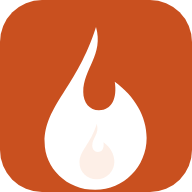
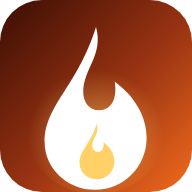
Installable on any device, and works in airplane mode
New ember app icon in every size platforms need (192, 512, maskable 512 with a safe-zone flame, 180 Apple touch icon, 32 favicon), a fuller manifest (id, display fallbacks, categories, wide and narrow screenshots for richer install dialogs) and iOS home-screen tags with safe-area padding. A ⤓ button installs FireCal with the browser's prompt where one exists (Chrome, Edge, Android, Samsung) and shows step-by-step instructions elsewhere (iPhone/iPad, Mac Safari, Firefox). Airplane mode: the service worker now saves the whole app shell, map library, fonts, borders, world fire map and the world base map (zoom 0-3) on the first visit, opens the app offline from any address, and 'Save all countries for offline' stores every calendar and map layer (~16 MB) with progress. An Offline chip shows when there is no connection, and unsaved areas explain how to get them. Tests check the offline list covers every script and stylesheet, and the manifest images match their sizes.

diff --git a/app/static/sw.js b/app/static/sw.js
@@ -1,18 +1,91 @@
-/* FireCal service worker: installable app shell + offline access to what you've already viewed.
-   Works at a site root (server edition) or under a sub-path such as /firecal/ (GitHub Pages). */
+/* FireCal service worker: an installable app that also works offline (airplane mode).
+   Works at a site root (local server) or under a sub-path such as /firecal/ (GitHub Pages).
+
+   On install it saves the whole app shell (code, styles, icons, fonts, map library, country borders,
+   the world fire map and the world base map down to zoom 3), so after one visit FireCal opens with no
+   connection at all. Areas you view are saved as you go; "Save all countries for offline" in the app
+   saves every country's calendar and every map layer (see app.js). */
 const VERSION = "{{v}}";
 const SHELL = `firecal-shell-${VERSION}`;
 const DATA = "firecal-data-v2";
 const LIBS = "firecal-libs-v1";
+const TILES = "firecal-tiles-v1";
+const FONTS = "firecal-fonts-v1";
 const BASE = new URL(self.registration.scope).pathname; // e.g. "/" or "/firecal/"
 
+const STATIC_FILES = ["styles.css", "app.js", "data.js", "engine.js", "geo.js", "live.js", "vendor/echarts.min.js"];
+const SHELL_URLS = ["./", "manifest.webmanifest", "world.geojson", "shapes.geojson",
+  ...STATIC_FILES.map((f) => `static/${f}?v=${VERSION}`),
+  "static/icon.svg", "static/icon-192.png", "static/icon-512.png", "static/icon-maskable-512.png", "static/apple-touch-icon.png", "static/favicon-32.png"];
+const DATA_URLS = ["data/meta.json", "data/map/all/overview.json", "data/live/meta.json", "data/live/overview.json",
+                   "data/live/tiles/index.json", "data/own_cells.json", "data/live/static_cells.json"];
+const LIB_URLS = ["https://cdnjs.cloudflare.com/ajax/libs/maplibre-gl/4.7.1/maplibre-gl.min.js",
+                  "https://cdnjs.cloudflare.com/ajax/libs/maplibre-gl/4.7.1/maplibre-gl.min.css"];
+const FONT_CSS = "https://fonts.googleapis.com/css2?family=Inter:wght@400;500;600;700&family=Space+Grotesk:wght@500;600;700&display=swap";
+
+function worldTiles() { // the base map of the whole world down to zoom 3 (85 small tiles per theme)
+  const out = [];
+  for (const theme of ["Light", "Dark"])
+    for (let z = 0; z <= 3; z++)
+      for (let y = 0; y < 2 ** z; y++)
+        for (let x = 0; x < 2 ** z; x++)
+          out.push(`https://server.arcgisonline.com/ArcGIS/rest/services/Canvas/World_${theme}_Gray_Base/MapServer/tile/${z}/${y}/${x}`);
+  return out;
+}
+
+async function saveAll(cacheName, urls, opts) { // best effort: one missing file never blocks the rest
+  const cache = await caches.open(cacheName);
+  await Promise.allSettled(urls.map(async (u) => {
+    if (opts?.skipCached && await cache.match(u)) return;
+    const res = await fetch(u, opts?.cors ? { mode: "cors" } : {});
+    if (res.ok || res.type === "opaque") await cache.put(u, res);
+  }));
+}
+
+async function saveFonts() { // the font stylesheet and the font files it points to
+  try {
+    const res = await fetch(FONT_CSS);
+    if (!res.ok) return;
+    const css = await res.clone().text();
+    await (await caches.open(FONTS)).put(FONT_CSS, res);
+    await saveAll(FONTS, [...css.matchAll(/url\((https:[^)]+)\)/g)].map((m) => m[1]));
+  } catch (_) { /* offline fonts fall back to the system font */ }
+}
+
 self.addEventListener("install", (e) => {
-  e.waitUntil(caches.open(SHELL).then((c) => c.addAll(["./", "world.geojson", "manifest.webmanifest"])).then(() => self.skipWaiting()));
+  e.waitUntil((async () => {
+    await saveAll(SHELL, SHELL_URLS);                      // the app itself
+    await Promise.allSettled([saveAll(DATA, DATA_URLS), saveAll(LIBS, LIB_URLS), saveFonts()]);
+    await self.skipWaiting();
+    saveAll(TILES, worldTiles(), { skipCached: true });   // in the background: not needed to start
+  })());
 });
 
 self.addEventListener("activate", (e) => {
   e.waitUntil(caches.keys().then((keys) => Promise.all(keys.filter((k) => k.startsWith("firecal-shell-") && k !== SHELL).map((k) => caches.delete(k))))
     .then(() => self.clients.claim()));
+});
+
+// the page asks for everything to be saved for offline use; progress is reported back to it
+self.addEventListener("message", (e) => {
+  if (e.data?.type !== "save-offline") return;
+  const urls = e.data.urls, port = e.ports[0];
+  e.waitUntil((async () => {
+    const cache = await caches.open(DATA);
+    let done = 0, failed = 0, i = 0;
+    await Promise.all(Array.from({ length: 6 }, async () => {
+      while (i < urls.length) {
+        const u = urls[i++];
+        try {
+          const res = await fetch(u, { cache: "no-cache" });
+          if (res.ok) await cache.put(u, res); else failed++;
+        } catch (_) { failed++; }
+        done++;
+        if (done % 10 === 0 || done === urls.length) port?.postMessage({ done, total: urls.length, failed });
+      }
+    }));
+    port?.postMessage({ done, total: urls.length, failed, finished: true });
+  })());
 });
 
 async function networkFirst(req, cacheName) {
@@ -22,7 +95,7 @@ async function networkFirst(req, cacheName) {
     if (res.ok) cache.put(req, res.clone());
     return res;
   } catch (err) {
-    const hit = await cache.match(req, { ignoreSearch: false });
+    const hit = await cache.match(req) || await cache.match(req, { ignoreSearch: true });
     if (hit) return hit;
     throw err;
   }
@@ -39,16 +112,28 @@ async function cacheFirst(req, cacheName) {
 
 async function staleWhileRevalidate(req, cacheName, event) {
   const cache = await caches.open(cacheName);
-  const hit = await cache.match(req);
+  const hit = await cache.match(req) || await cache.match(req, { ignoreSearch: true });
   const update = fetch(req).then((res) => { if (res.ok) cache.put(req, res.clone()); return res; });
   if (hit) { event.waitUntil(update.catch(() => {})); return hit; }
   return update;
+}
+
+async function page(req) { // the app page: fresh when online, the saved copy offline (any #hash or ?query)
+  try {
+    const res = await fetch(req);
+    if (res.ok) (await caches.open(SHELL)).put("./", res.clone());
+    return res;
+  } catch (err) {
+    const shell = await caches.open(SHELL);
+    return (await shell.match("./")) || (await shell.match(req, { ignoreSearch: true })) || Response.error();
+  }
 }
 
 self.addEventListener("fetch", (e) => {
   const req = e.request;
   if (req.method !== "GET") return;
   const url = new URL(req.url);
+  if (req.mode === "navigate" && url.origin === location.origin) { e.respondWith(page(req)); return; }
   if (url.origin === location.origin) {
     const p = url.pathname.slice(BASE.length - 1); // path relative to the app root, starting with "/"
     if (p.startsWith("/api/jobs") || p.startsWith("/api/prepare")) return;                                  // progress: always live
@@ -59,7 +144,9 @@ self.addEventListener("fetch", (e) => {
     else e.respondWith(networkFirst(req, SHELL));
   } else if (url.hostname === "cdnjs.cloudflare.com") {
     e.respondWith(cacheFirst(req, LIBS));
+  } else if (url.hostname === "fonts.googleapis.com" || url.hostname === "fonts.gstatic.com") {
+    e.respondWith(cacheFirst(req, FONTS));
   } else if (url.hostname === "server.arcgisonline.com") {
-    e.respondWith(cacheFirst(req, "firecal-tiles-v1"));
+    e.respondWith(cacheFirst(req, TILES));
   }
 });

diff --git a/app/static/app.js b/app/static/app.js
@@ -1010,6 +1010,96 @@ function locateMe() {
   }, () => toast("Location permission denied"), { timeout: 10000 });
 }
 
+// ───────────────────────── install & offline ─────────────────────────
+let installPrompt = null;
+const isStandalone = () => matchMedia("(display-mode: standalone)").matches || navigator.standalone === true;
+function platform() {
+  const ua = navigator.userAgent;
+  if (/iPad|iPhone|iPod/.test(ua) || (/Macintosh/.test(ua) && navigator.maxTouchPoints > 1)) return "ios";
+  if (/Android/.test(ua)) return /SamsungBrowser/.test(ua) ? "samsung" : /Firefox/.test(ua) ? "android-firefox" : "android";
+  if (/Firefox/.test(ua)) return "firefox";
+  if (/Safari/.test(ua) && !/Chrome|Chromium|Edg|OPR/.test(ua)) return "mac-safari";
+  return /Edg/.test(ua) ? "edge" : "desktop";
+}
+addEventListener("beforeinstallprompt", (e) => { e.preventDefault(); installPrompt = e; $("installBtn").classList.add("ready"); });
+addEventListener("appinstalled", () => { installPrompt = null; toast("FireCal is installed. It opens from its icon and works offline."); });
+
+function installSteps() {
+  if (isStandalone()) return `<p class="ok-line">✓ FireCal is installed on this device and opens from its own icon.</p>`;
+  if (installPrompt) return `<p>Install FireCal as an app: its own icon, its own window, and it works offline.</p>
+    <p><button type="button" id="doInstall">Install FireCal</button></p>`;
+  const steps = {
+    ios: ["Tap the <b>Share</b> button <span class=\"kbd-ico\">⬆</span> (bottom of the screen on iPhone, top on iPad).",
+          "Scroll down and tap <b>Add to Home Screen</b>.", "Tap <b>Add</b>. FireCal now opens full-screen from its icon, also offline."],
+    android: ["Open the browser menu <b>⋮</b> (top right).", "Tap <b>Install app</b> (or <b>Add to Home screen</b>).", "Confirm with <b>Install</b>."],
+    samsung: ["Tap the menu <b>≡</b> (bottom right).", "Tap <b>Add page to</b> → <b>Home screen</b>.", "Confirm with <b>Add</b>."],
+    "android-firefox": ["Open the menu <b>⋮</b>.", "Tap <b>Install</b> (or <b>Add to Home screen</b>).", "Confirm."],
+    "mac-safari": ["In the menu bar choose <b>File → Add to Dock</b> (Safari 17 or newer).", "Click <b>Add</b>. FireCal opens from the Dock like any app."],
+    edge: ["Click the <b>App available</b> icon in the address bar, or open the menu <b>…</b> → <b>Apps</b> → <b>Install this site as an app</b>.", "Click <b>Install</b>."],
+    desktop: ["Click the <b>install</b> icon <span class=\"kbd-ico\">⊕</span> at the right end of the address bar, or open the menu <b>⋮</b> → <b>Cast, save and share</b> → <b>Install page as app</b>.", "Click <b>Install</b>."],
+    firefox: ["Firefox on computers doesn't install web apps. Open this page in <b>Chrome</b>, <b>Edge</b> or <b>Safari</b> to install it,", "or keep using it here: saving for offline below works in Firefox too."],
+  }[platform()];
+  return `<ol class="steps">${steps.map((t) => `<li>${t}</li>`).join("")}</ol>`;
+}
+
+function openInstall() {
+  $("installSteps").innerHTML = installSteps();
+  const btn = $("doInstall");
+  if (btn) btn.onclick = async () => {
+    installPrompt.prompt();
+    const { outcome } = await installPrompt.userChoice.catch(() => ({}));
+    if (outcome === "accepted") installPrompt = null;
+    $("installSteps").innerHTML = installSteps();
+  };
+  const local = FireData.mode !== "static";
+  $("saveOffline").hidden = local;
+  if (local) $("offlineStatus").textContent = "This copy of FireCal runs on this computer, so it already works without internet; only live fires need a connection.";
+  else offlineCount().then(renderOfflineStatus);
+  const d = $("installDlg"); if (d.showModal) d.showModal(); else d.setAttribute("open", "");
+}
+
+async function offlineCount() { // countries whose calendar is saved on this device
+  try {
+    const keys = await (await caches.open("firecal-data-v2")).keys();
+    return new Set(keys.map((r) => decodeURIComponent(new URL(r.url).pathname)).filter((p) => p.includes("/data/countries/"))).size;
+  } catch (_) { return null; }
+}
+function renderOfflineStatus(n) {
+  const total = state.meta?.countries.filter((c) => c.ready).length || 0;
+  if (n != null) $("offlineStatus").textContent = n >= total && total ? `✓ All ${total} countries are saved on this device.` : `${n} of ${total} countries saved on this device.`;
+}
+
+async function saveOffline() {
+  if (!("serviceWorker" in navigator) || !navigator.serviceWorker.controller) { toast("Offline saving needs a moment to get ready; reload the page once and try again."); return; }
+  if (!navigator.onLine) { toast("You're offline. Connect once to save everything for offline use."); return; }
+  const ready = state.meta.countries.filter((c) => c.ready);
+  const layers = ["all", ...[...$("mapYear").options].map((o) => o.value).filter((v) => v !== "all").map((y) => `y${y}`),
+                  ...Array.from({ length: 12 }, (_, i) => `m${String(i + 1).padStart(2, "0")}`)];
+  const urls = [...ready.map((c) => `data/countries/${encodeURIComponent(c.id)}.json`),
+                ...layers.flatMap((k) => [`data/map/${k}/overview.json`, `data/map/${k}/index.json`])];
+  const bar = $("offlineBar"), btn = $("saveOffline");
+  bar.hidden = false; btn.disabled = true;
+  const channel = new MessageChannel();
+  channel.port1.onmessage = async (e) => {
+    const { done, total, failed, finished } = e.data;
+    bar.querySelector("i").style.width = `${Math.round((done / total) * 100)}%`;
+    $("offlineStatus").textContent = `Saving… ${done} of ${total} files`;
+    if (finished) {
+      btn.disabled = false; bar.hidden = true;
+      renderOfflineStatus(await offlineCount());
+      toast(failed ? `Saved for offline, except ${failed} files (connection dropped); try again to finish.` : "Everything is saved: FireCal now works fully offline.");
+    }
+  };
+  navigator.serviceWorker.controller.postMessage({ type: "save-offline", urls }, [channel.port2]);
+}
+
+function updateNetwork() {
+  const off = !navigator.onLine;
+  $("offlineChip").hidden = !off;
+  document.documentElement.classList.toggle("is-offline", off);
+  if (off) offlineCount().then((n) => { $("offlineChip").title = n != null ? `Offline: showing data saved on this device (${n} countries saved)` : "Offline: showing saved data"; });
+}
+
 function openHelp() { const d = $("help"); if (d.showModal) d.showModal(); else d.setAttribute("open", ""); }
 
 // ───────────────────────── wiring ─────────────────────────
@@ -1111,6 +1201,9 @@ async function init() {
   $("share").onclick = share;
   $("print").onclick = printReport;
   $("helpBtn").onclick = openHelp;
+  $("installBtn").hidden = false; $("installBtn").onclick = openInstall;
+  $("saveOffline").onclick = saveOffline;
+  addEventListener("online", updateNetwork); addEventListener("offline", updateNetwork); updateNetwork();
   $("helpClose").onclick = () => $("help").close?.();
   $("theme").onclick = () => {
     const next = isDark() ? "light" : "dark";

diff --git a/app/static/index.html b/app/static/index.html
@@ -9,7 +9,14 @@
   <meta name="theme-color" content="#9a3412" media="(prefers-color-scheme: light)">
   <link rel="manifest" href="/manifest.webmanifest">
   <link rel="icon" href="/static/icon.svg?v={{v}}" type="image/svg+xml">
-  <link rel="apple-touch-icon" href="/static/icon-192.png?v={{v}}">
+  <link rel="icon" href="/static/favicon-32.png?v={{v}}" type="image/png" sizes="32x32">
+  <link rel="apple-touch-icon" href="/static/apple-touch-icon.png?v={{v}}">
+  <meta name="mobile-web-app-capable" content="yes">
+  <meta name="apple-mobile-web-app-capable" content="yes">
+  <meta name="apple-mobile-web-app-title" content="FireCal">
+  <meta name="apple-mobile-web-app-status-bar-style" content="black-translucent">
+  <meta name="application-name" content="FireCal">
+  <meta name="format-detection" content="telephone=no">
   <link rel="preconnect" href="https://fonts.googleapis.com">
   <link rel="preconnect" href="https://fonts.gstatic.com" crossorigin>
   <link rel="stylesheet" href="https://fonts.googleapis.com/css2?family=Inter:wght@400;500;600;700&family=Space+Grotesk:wght@500;600;700&display=swap">
@@ -39,6 +46,8 @@
       <datalist id="countryList"></datalist>
     </form>
     <div class="top-actions">
+      <span id="offlineChip" class="offline-chip" hidden>Offline · saved data</span>
+      <button id="installBtn" class="ghost icon install" type="button" aria-label="Install FireCal and use it offline" title="Install the app · use offline" hidden>⤓</button>
       <button id="helpBtn" class="ghost icon" type="button" aria-label="How to use FireCal">?</button>
       <button id="theme" class="ghost icon" type="button" aria-label="Toggle dark mode">◐</button>
     </div>
@@ -261,9 +270,23 @@
       <li><b>Read the calendar.</b> Every month since 2000 appears as one square: darker means more burning. Switch to <b>Anomaly</b> to spot unusual months, and tap a row to open that year day by day.</li>
       <li><b>Plan.</b> <b>Critical periods</b> show when the season opens, peaks and closes. <b>What this means</b> summarizes it for responders, land managers or scientists.</li>
       <li><b>Share.</b> Every view has its own link. Print a report or download the data as CSV.</li>
+      <li><b>Install &amp; offline.</b> Tap <b>⤓</b> at the top to install FireCal on your phone or computer and save every country for airplane mode.</li>
     </ol>
     <p class="hint">A <b>fire cell-day</b> is one 0.1° grid cell (≈ 11 km) with at least one satellite fire detection that day. Press <kbd>/</kbd> to search.</p>
     <form method="dialog"><button id="helpClose" type="submit">Get started</button></form>
+  </dialog>
+  <dialog id="installDlg" class="help" aria-labelledby="installTitle">
+    <h2 id="installTitle">Install FireCal</h2>
+    <div id="installSteps"></div>
+    <h3 class="dlg-h3">Use it offline (airplane mode)</h3>
+    <p>FireCal keeps working without a connection: the app, the world map and every area you have opened are saved on this device. To take <b>every country</b> with you, save them all now (about 16 MB):</p>
+    <div class="offline-row">
+      <button id="saveOffline" type="button">Save all countries for offline</button>
+      <span id="offlineStatus" class="hint"></span>
+    </div>
+    <div class="pbar" id="offlineBar" hidden><i style="width:0%"></i></div>
+    <p class="hint">Live fires need a connection; offline, FireCal shows the last ones it saw. Drawn boxes work offline for the regions you have analyzed before.</p>
+    <form method="dialog"><button type="submit" class="ghost">Close</button></form>
   </dialog>
   <div class="tip" id="tip" role="status"></div>
   <div class="toast" id="toast" role="status" aria-live="polite"></div>

diff --git a/app/static/styles.css b/app/static/styles.css
@@ -134,6 +134,19 @@ button.active { box-shadow: inset 0 0 0 2px var(--ink); }
 .legend .ln { width: 18px; height: 0; border-top: 2px solid; display: inline-block; }
 .legend .ln.dash { border-top-style: dashed; }
 
+/* ── install & offline ── */
+.topbar { padding-top: max(10px, env(safe-area-inset-top)); padding-left: max(24px, env(safe-area-inset-left)); padding-right: max(24px, env(safe-area-inset-right)); }
+.topbar button.install.ready { background: #ffd166; color: #3b0d04; border-color: #ffd166; box-shadow: 0 0 14px rgba(255, 209, 102, .6); }
+.offline-chip { align-self: center; font-size: 12px; font-weight: 700; padding: 5px 10px; border-radius: 999px;
+                background: rgba(0, 0, 0, .28); color: #ffd166; border: 1px solid rgba(255, 209, 102, .5); white-space: nowrap; }
+.dlg-h3 { font-family: var(--font-display); font-size: 15px; margin: 16px 0 6px; }
+.steps { padding-left: 20px; }
+.kbd-ico { display: inline-block; padding: 0 5px; border: 1px solid var(--border-strong); border-radius: 5px; font-size: 12px; }
+.ok-line { color: var(--good); font-weight: 650; }
+.offline-row { display: flex; align-items: center; gap: 10px; flex-wrap: wrap; margin: 6px 0; }
+#offlineBar { margin: 8px 0; }
+body { padding-bottom: env(safe-area-inset-bottom); }
+
 /* ── map legend with plain words ── */
 .mlegend { width: 100%; display: grid; gap: 3px; }
 .mbar { height: 12px; border-radius: 6px; box-shadow: inset 0 0 0 1px var(--border); }

diff --git a/app/static/data.js b/app/static/data.js
@@ -19,6 +19,8 @@
         if (!r.ok) throw new HttpError(r.status, body);
         return body;
       } catch (e) {
+        if (!navigator.onLine && !(e instanceof HttpError))  // airplane mode, and this file isn't saved on the device
+          throw new Error("you're offline and this hasn't been saved on this device yet. Reconnect, or next time use ⤓ → Save all countries before going offline");
         if (i + 1 >= tries || (e instanceof HttpError && e.status < 500)) throw e;
         await new Promise((res) => setTimeout(res, 600 * 2 ** i));
       }

diff --git a/tests/test_pwa.py b/tests/test_pwa.py
@@ -1,0 +1,40 @@
+"""Installable app + airplane mode: the service worker saves everything the page loads, and the
+manifest's icons and screenshots exist at the sizes it states."""
+import json
+import pathlib
+import re
+import struct
+
+STATIC = pathlib.Path(__file__).resolve().parent.parent / "app" / "static"
+
+
+def png_size(path):
+    with open(path, "rb") as f:
+        head = f.read(24)
+    return struct.unpack(">II", head[16:24])
+
+
+def test_service_worker_saves_every_script_and_stylesheet_the_page_loads():
+    html = (STATIC / "index.html").read_text()
+    sw = (STATIC / "sw.js").read_text()
+    files = set(json.loads(re.search(r"const STATIC_FILES = (\[[^\]]*\]);", sw).group(1)))
+    loaded = set(re.findall(r'"/static/([^"?]+\.(?:js|css))\?v=', html))
+    assert loaded and loaded <= files, loaded - files
+    for f in files:
+        assert (STATIC / f).exists(), f
+
+
+def test_manifest_icons_and_screenshots_match_their_sizes():
+    man = json.loads((STATIC / "manifest.webmanifest").read_text())
+    assert man["display"] == "standalone" and man["start_url"] and man["id"]
+    assert any(i.get("purpose") == "maskable" for i in man["icons"])
+    assert {i["sizes"] for i in man["icons"] if i["type"] == "image/png"} >= {"192x192", "512x512"}
+    for item in man["icons"] + man["screenshots"]:
+        path = STATIC / item["src"].removeprefix("/static/")
+        assert path.exists(), item["src"]
+        if item["type"] == "image/png":
+            w, h = png_size(path)
+            assert f"{w}x{h}" == item["sizes"], (item["src"], w, h)
+    html = (STATIC / "index.html").read_text()
+    assert 'rel="apple-touch-icon" href="/static/apple-touch-icon.png' in html  # iPhone / iPad home screen
+    assert png_size(STATIC / "apple-touch-icon.png") == (180, 180)

diff --git a/pipeline/static_site.py b/pipeline/static_site.py
@@ -57,8 +57,8 @@ def build_app(out: pathlib.Path, version: str):
     (out / "index.html").write_text(html, encoding="utf-8")
     (out / "sw.js").write_text((STATIC / "sw.js").read_text(encoding="utf-8").replace("{{v}}", version), encoding="utf-8")
     man = json.loads((STATIC / "manifest.webmanifest").read_text())
-    man["start_url"], man["scope"] = "./", "./"
-    for icon in man["icons"]:
+    man["start_url"], man["scope"], man["id"] = "./", "./", "./"
+    for icon in man["icons"] + man.get("screenshots", []):
         icon["src"] = icon["src"].lstrip("/")
     write_json(out / "manifest.webmanifest", man)
     shutil.copy(RES / "world.geojson", out / "world.geojson")    # map outlines (1:110m)

diff --git a/README.md b/README.md
@@ -23,7 +23,7 @@ compares with every past year.
 | **Critical periods** | Season opens / peaks / closes, highest-risk weeks, and today's position in the season |
 | **Early warning** | The last 6 complete days of NASA near-real-time VIIRS detections vs the same dates in every year since 2001 (percentile, status); 30-day climatological outlook |
 | **Responders / scientists / land managers** | "What this means" plain-language briefing written for each audience |
-| Beyond the brief | Live global fire map, shareable links for every view, CSV export, printable report, JSON downloads (website) and an API with `/docs` (local server), installable offline-capable app, light/dark themes, works on phones |
+| Beyond the brief | Live global fire map, shareable links for every view, CSV export, printable report, JSON downloads (website) and an API with `/docs` (local server), installable app on computers, Android and iPhone/iPad (⤓ button: the browser's install prompt where it exists, step-by-step instructions on iOS, Mac Safari, Samsung Internet and Firefox), airplane mode (after one visit the app, world map, fonts and every area opened work offline; "Save all countries for offline" stores every calendar and map layer, ~16 MB), light/dark themes, works on phones |
 
 ## Two editions, one codebase
 
